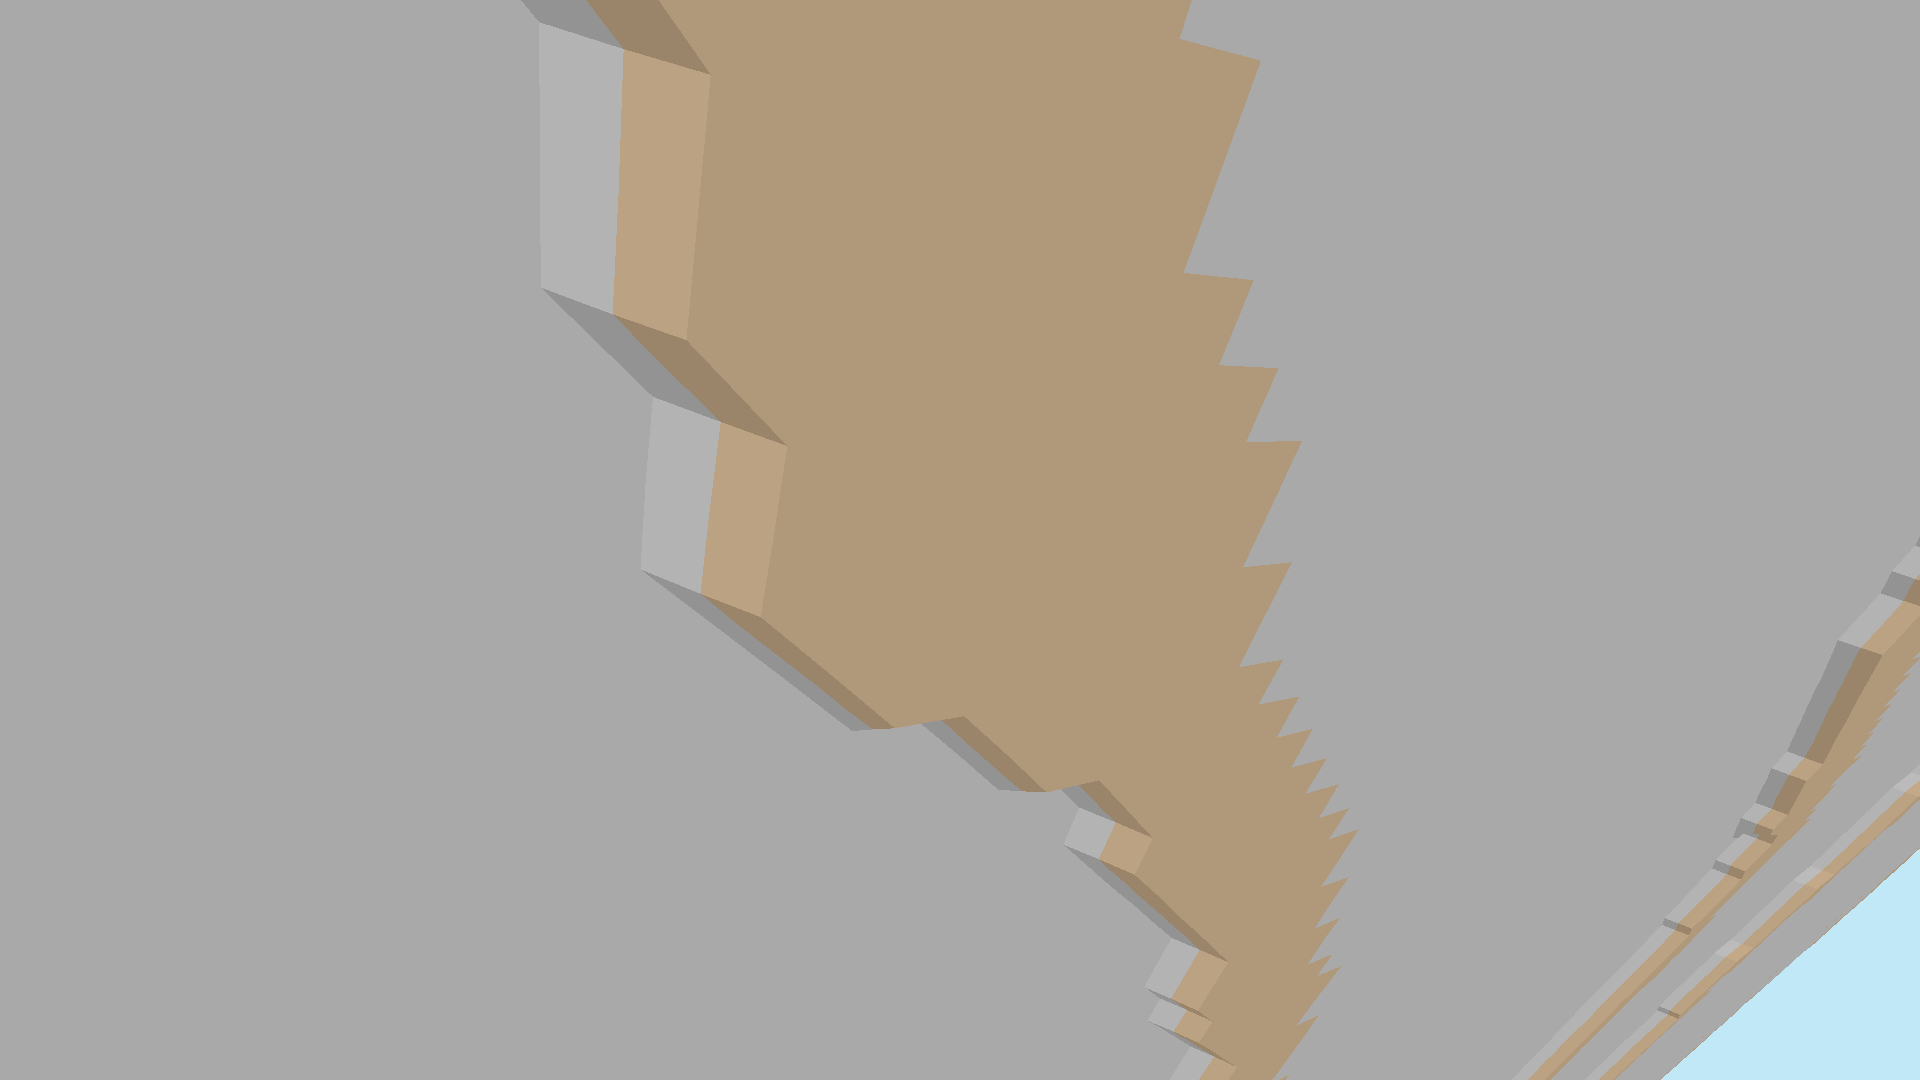
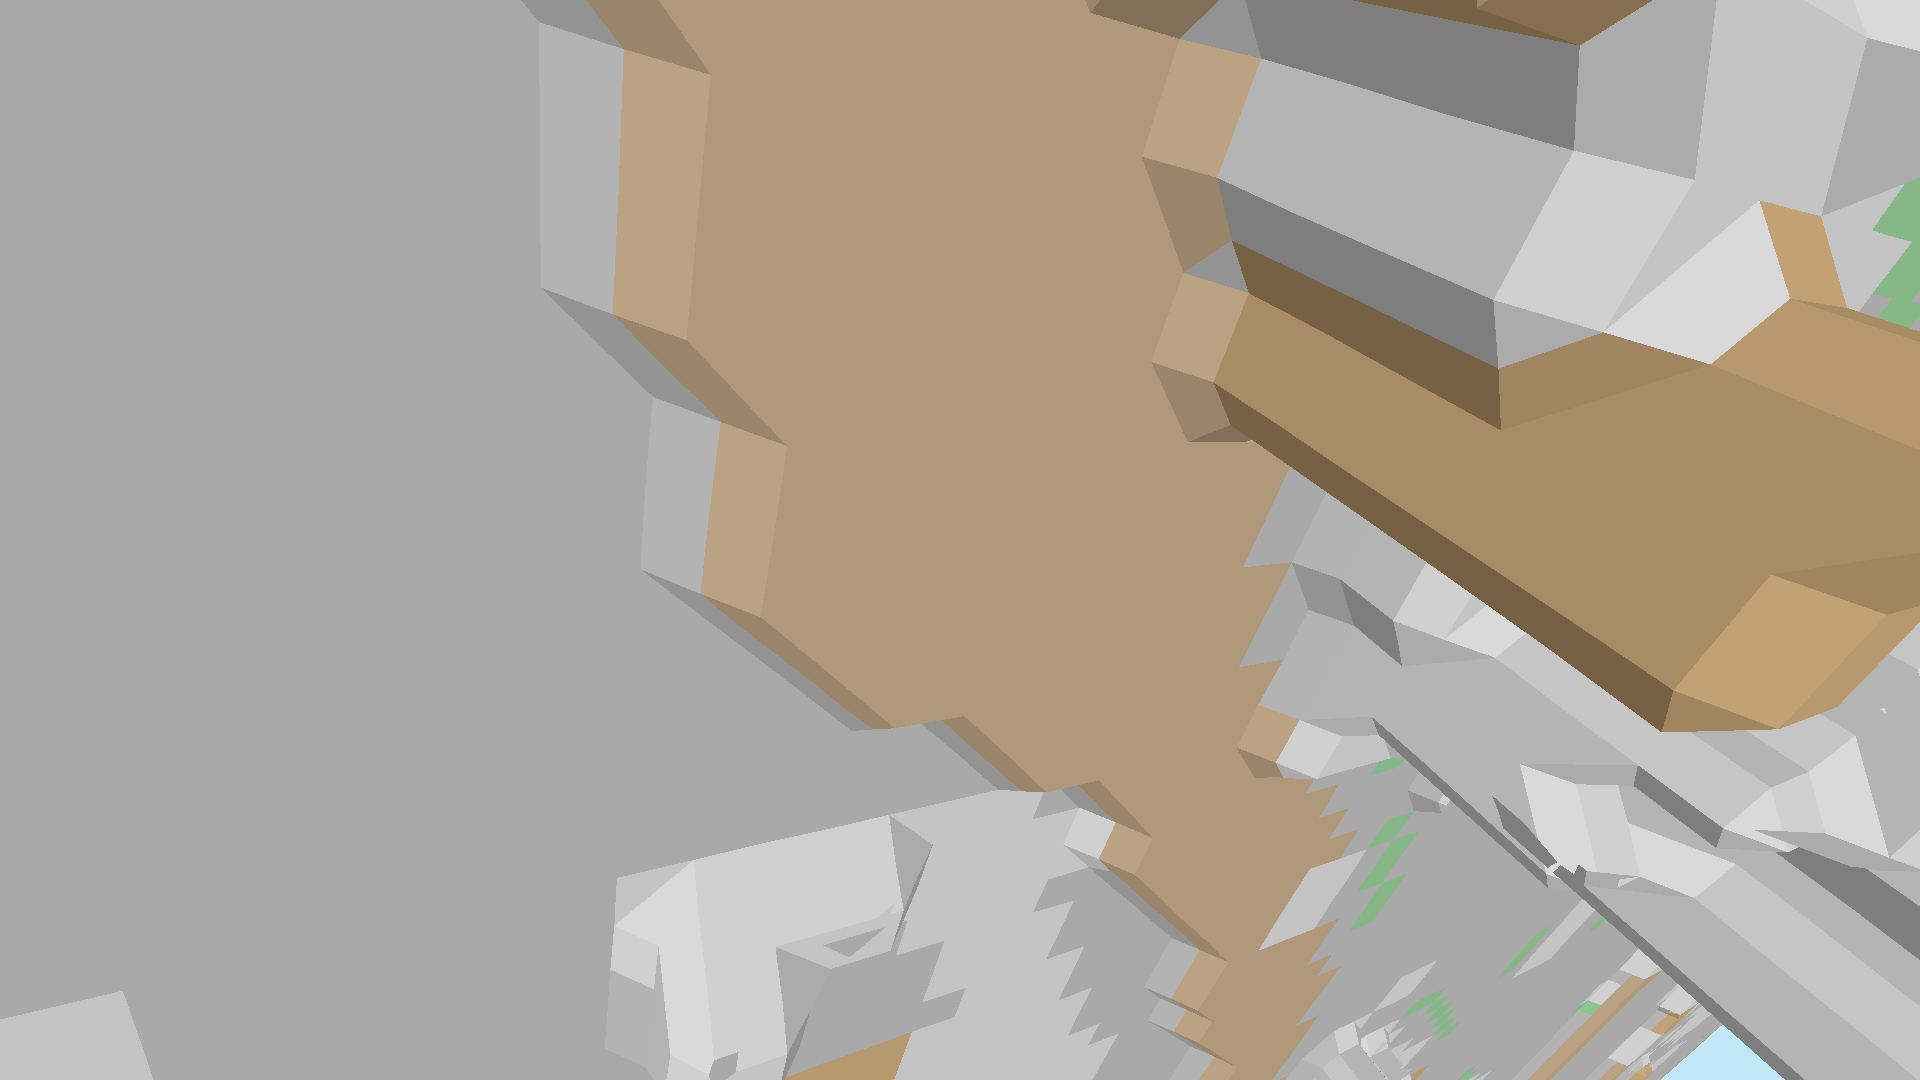
fix: actually call update_world_chunks() in render loop
Critical bug fix: update_world_chunks() was defined but NEVER CALLED.
- Added call in RedrawRequested handler
- Update on first frame (frame 0) immediately
- Then update every 30 frames
- Added debug logging to track chunk generation

This was why viewer showed only blue sky - chunks never loaded!

diff --git a/examples/viewer.rs b/examples/viewer.rs
@@ -125,9 +125,13 @@ impl App {
     }
     
     fn update_world_chunks(&mut self) {
+        println!("[update_world_chunks] Starting...");
+        
         // Update WorldManager and extract visible meshes
         if let (Some(world_manager), Some(srtm), Some(osm_data), Some(renderer)) = 
             (&mut self.world_manager, &mut self.srtm, &self.full_osm_data, &self.renderer) {
+            
+            println!("[update_world_chunks] All components present");
             
             // Convert camera to EcefPos
             let camera_ecef = EcefPos {
@@ -136,15 +140,23 @@ impl App {
                 z: self.camera.position.z,
             };
             
+            println!("[update_world_chunks] Camera ECEF: ({:.1}, {:.1}, {:.1})", 
+                camera_ecef.x, camera_ecef.y, camera_ecef.z);
+            
             // Update chunks based on camera position
-            world_manager.update(&camera_ecef, srtm, osm_data);
+            let num_chunks = world_manager.update(&camera_ecef, srtm, osm_data);
+            println!("[update_world_chunks] After update: {} chunks loaded", num_chunks);
             
             // Extract all visible chunks with their meshes
             let chunk_meshes = world_manager.extract_meshes(&camera_ecef);
+            println!("[update_world_chunks] Extracted {} chunk meshes", chunk_meshes.len());
             
             if chunk_meshes.is_empty() {
+                println!("[update_world_chunks] No chunk meshes - nothing to render");
                 return;
             }
+            
+            println!("[update_world_chunks] Processing {} chunks", chunk_meshes.len());
             
             // Convert all chunk meshes to GPU format and transform to ECEF
             let material_colors = MaterialColors::default_palette();
@@ -189,8 +201,12 @@ impl App {
             }
             
             if all_vertices.is_empty() || all_indices.is_empty() {
+                println!("[update_world_chunks] No vertices/indices generated");
                 return;
             }
+            
+            println!("[update_world_chunks] Generated {} vertices, {} indices", 
+                all_vertices.len(), all_indices.len());
             
             // Update GPU buffers
             let vertex_buffer = renderer.device.create_buffer_init(&wgpu::util::BufferInitDescriptor {
@@ -431,6 +447,14 @@ impl ApplicationHandler for App {
                 // Process elevation download queue
                 if let Some(downloader) = &self.downloader {
                     downloader.process_queue();
+                }
+                
+                // Update world chunks based on camera position
+                // Update immediately on first frame, then every 30 frames after that
+                if self.frame_count == 0 || (self.frame_count - self.chunk_update_frame) >= 30 {
+                    println!("[Frame {}] Updating world chunks...", self.frame_count);
+                    self.update_world_chunks();
+                    self.chunk_update_frame = self.frame_count;
                 }
                 
                 if let (Some(renderer), Some(window), Some(pipeline)) = 
